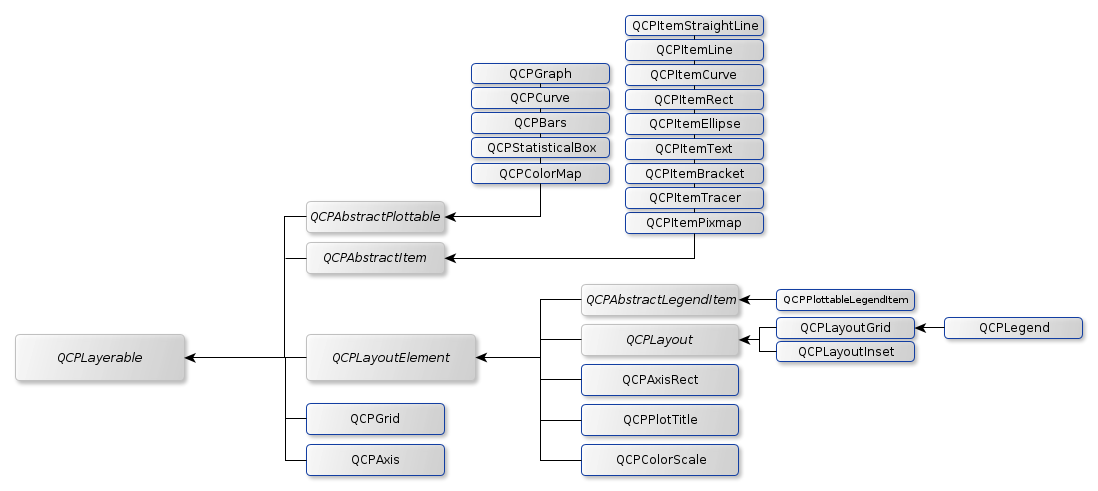
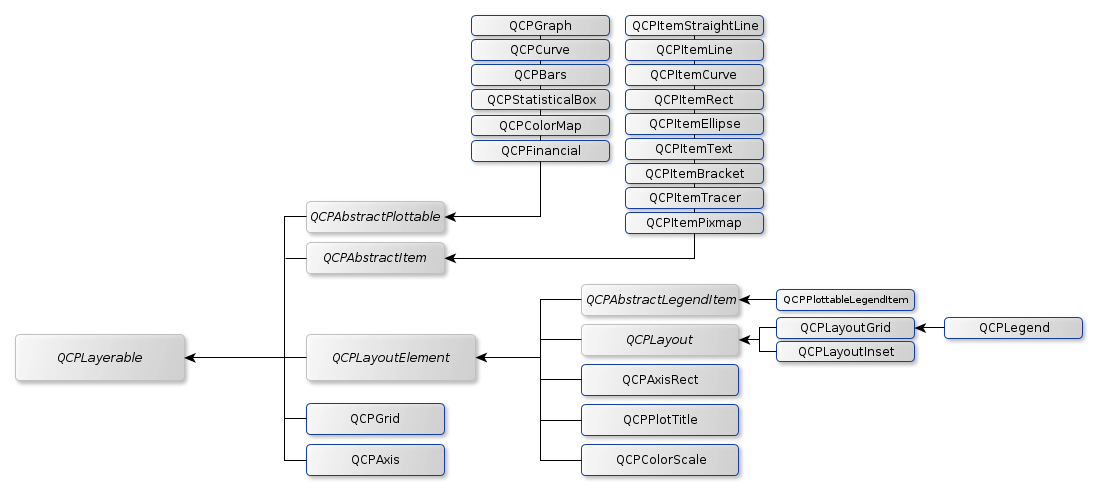
- doc: various corrections - doc: updated inheritance overview image - removed non-existent todo.txt reference from qcp-staticlib.pro and manualtest.pro

Changed region(s): [[0.4335, 0.0305, 0.5574, 0.3971]]

diff --git a/src/plottable.cpp b/src/plottable.cpp
@@ -210,7 +210,7 @@ void QCPAbstractPlottable::setName(const QString &name)
 }
 
 /*!
-  Sets whether fills of this plottable is drawn antialiased or not.
+  Sets whether fills of this plottable are drawn antialiased or not.
   
   Note that this setting may be overridden by \ref QCustomPlot::setAntialiasedElements and \ref
   QCustomPlot::setNotAntialiasedElements.
@@ -247,8 +247,7 @@ void QCPAbstractPlottable::setAntialiasedErrorBars(bool enabled)
   The pen is used to draw basic lines that make up the plottable representation in the
   plot.
   
-  For example, the \ref QCPGraph subclass draws its graph lines and scatter points
-  with this pen.
+  For example, the \ref QCPGraph subclass draws its graph lines with this pen.
 
   \see setBrush
 */
